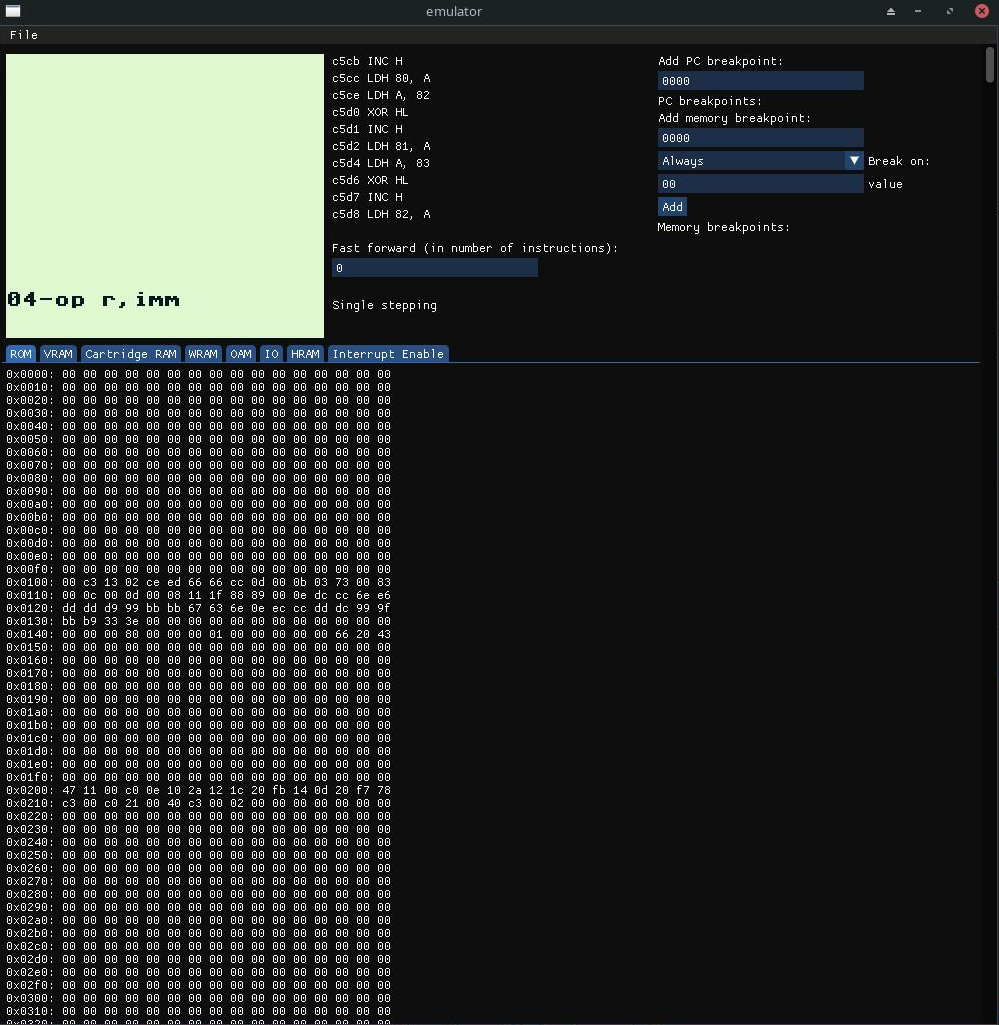
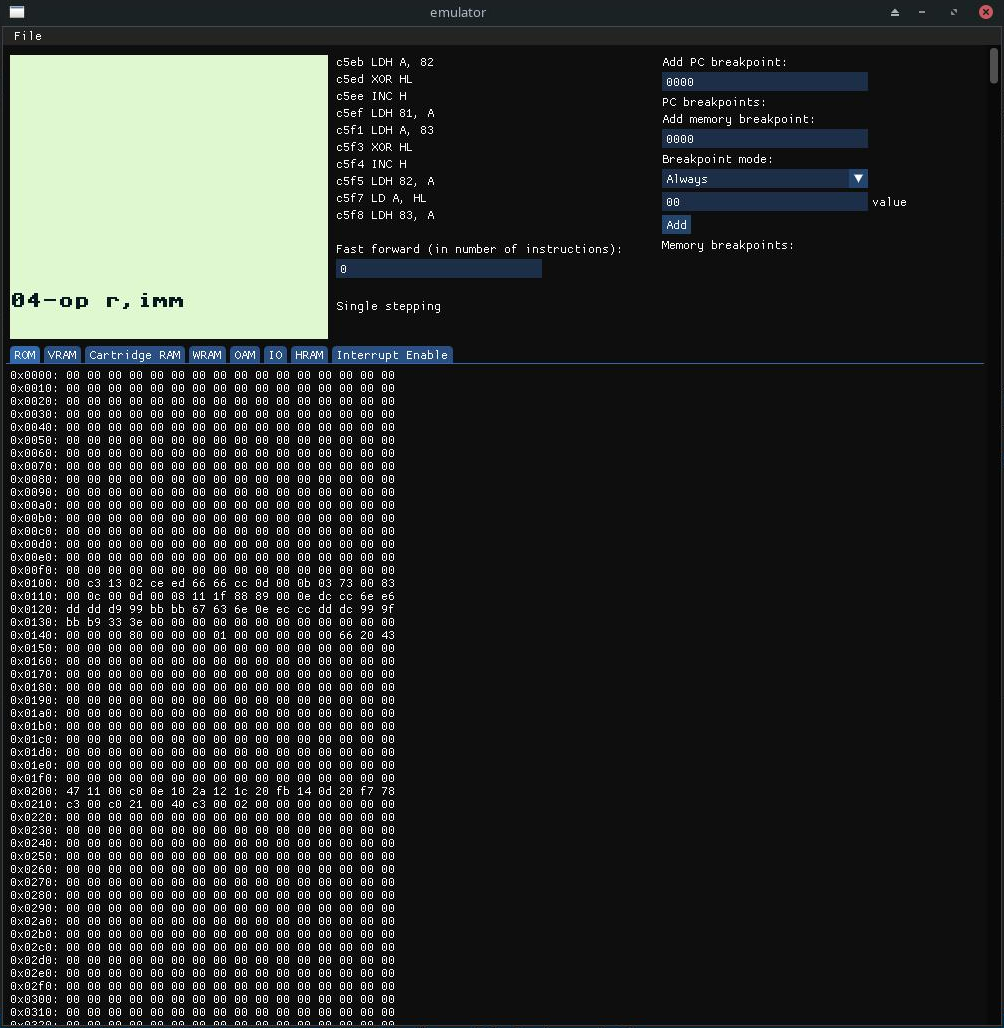
changed a label in memory breakpoints' menu

diff --git a/src/Application.cpp b/src/Application.cpp
@@ -226,7 +226,8 @@ namespace emulator {
         ImGui::TextUnformatted("Add memory breakpoint:");
         ImGui::InputScalar("##address", ImGuiDataType_U16, &memory_breakpoint_data_.address, nullptr, nullptr, "%.4x",
                            ImGuiInputTextFlags_CharsHexadecimal);
-        if (ImGui::BeginCombo("Break on:", to_string(memory_breakpoint_data_.break_on).data())) {
+        ImGui::TextUnformatted("Breakpoint mode:");
+        if (ImGui::BeginCombo("##break_on", to_string(memory_breakpoint_data_.break_on).data())) {
             if (ImGui::Selectable(to_string(MemoryBreakpointData::BreakOn::ALWAYS).data())) {
                 memory_breakpoint_data_.break_on = MemoryBreakpointData::BreakOn::ALWAYS;
             } else if (ImGui::Selectable(to_string(MemoryBreakpointData::BreakOn::READ).data())) {
